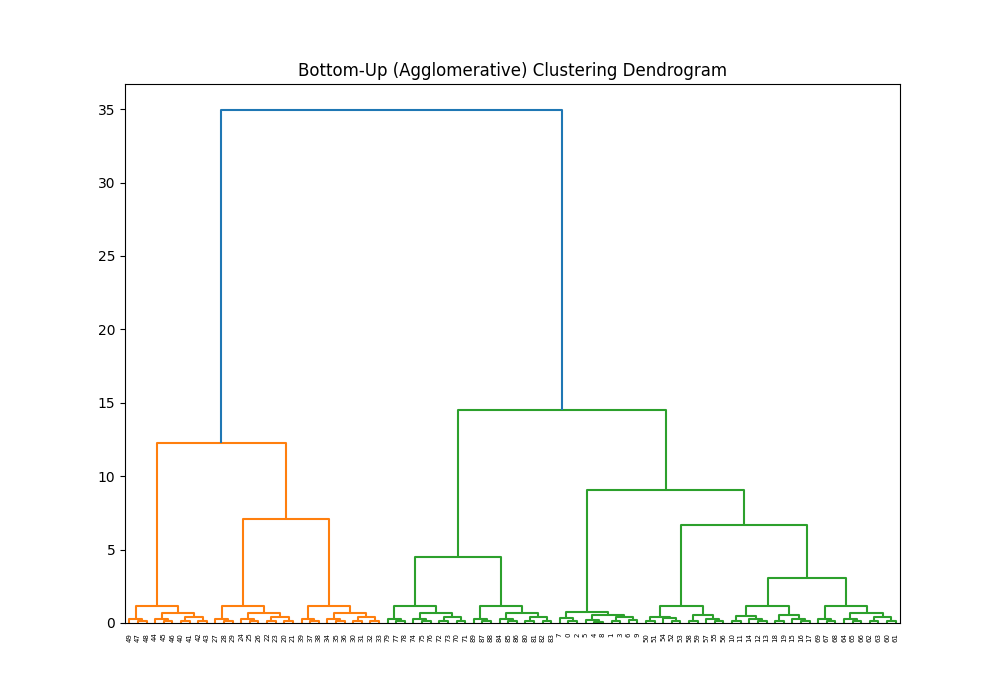
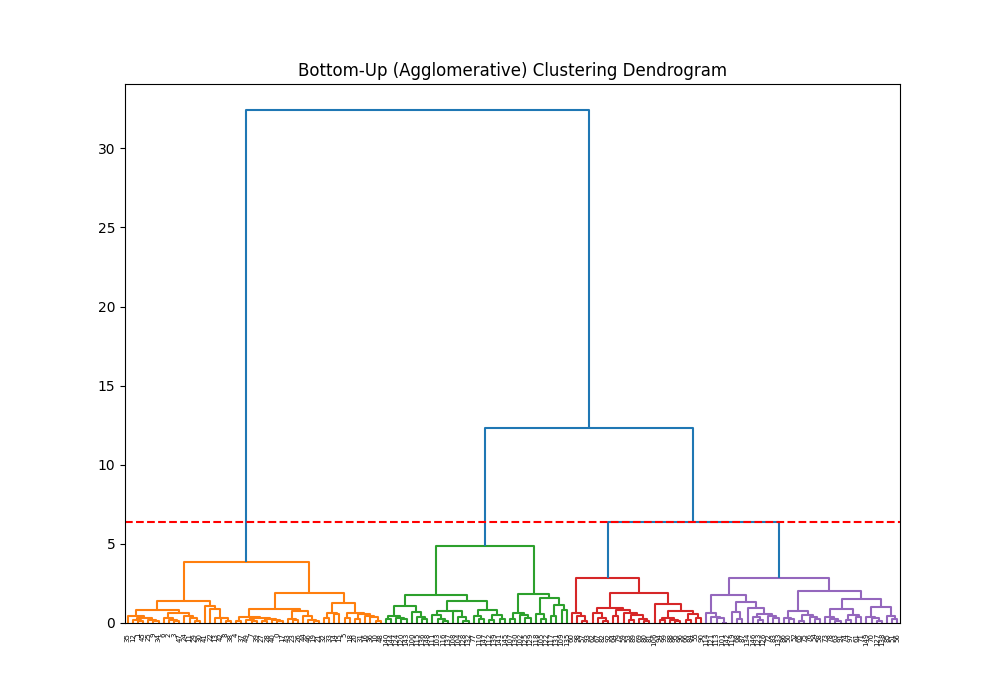
demo-1.4

diff --git a/templates/index.html b/templates/index.html
@@ -20,7 +20,7 @@
 
             <div class="form-group">
                 <label for="num_clusters">Number of Clusters:</label>
-                <input type="text" id="num_clusters" name="num_clusters" required>
+                <input type="number" id="num_clusters" name="num_clusters" value="3" min="2" required>
             </div>
             <!-- Lựa chọn phương pháp clustering -->
             <div class="form-group">

diff --git a/app.py b/app.py
@@ -1,68 +1,81 @@
-from flask import Flask, request, render_template
-import pandas as pd
-from sklearn.cluster import KMeans
-import matplotlib.pyplot as plt
 import io
 import os
-from flask import send_file
 import base64
 import numpy as np
-from scipy.cluster.hierarchy import dendrogram
+import pandas as pd
+from flask import send_file
+import matplotlib.pyplot as plt
+from scipy.cluster.hierarchy import linkage, dendrogram
+from flask import Flask, request, render_template
 from scipy.spatial.distance import pdist, squareform
-from scipy.cluster.hierarchy import linkage
-from sklearn.cluster import AgglomerativeClustering
+from sklearn.cluster import AgglomerativeClustering, KMeans, MiniBatchKMeans
 
 app = Flask(__name__)
-
-
-# Hàm thực hiện phân cụm đệ quy cho top-down
-def top_down_clustering(data, num_clusters):
-    clusters = [(data, 0)]  # Danh sách cụm ban đầu
-    labels = np.zeros(data.shape[0], dtype=int)  # Nhãn cho các điểm dữ liệu
-    current_cluster_label = 1  # Đánh dấu nhãn cụm
-
-    while len(clusters) < num_clusters:
-        # Nếu không có cụm nào để chia, dừng vòng lặp
-        if len(clusters) == 0:
-            break
-
-        # Tìm cụm lớn nhất để chia
-        largest_cluster_index = max(range(len(clusters)), key=lambda i: len(clusters[i][0]))
-        largest_cluster_data = clusters[largest_cluster_index][0]
-
-        # Nếu cụm lớn có ít hơn 2 điểm, không thể chia thêm
-        if len(largest_cluster_data) < 2:
-            break
-
-        # Xóa cụm lớn nhất ra khỏi danh sách
-        clusters.pop(largest_cluster_index)
-
-        # Áp dụng KMeans để chia cụm thành 2 phần
-        kmeans = KMeans(n_clusters=2)
-        sub_clusters = kmeans.fit_predict(largest_cluster_data)
-
-        # Gán nhãn cho các điểm
-        labels[labels == 0] = current_cluster_label  # Nhãn cho cụm mới 1
-        labels[labels == 1] = current_cluster_label + 1  # Nhãn cho cụm mới 2
-
-        # Thêm hai cụm mới vào danh sách
-        clusters.append((largest_cluster_data[sub_clusters == 0], current_cluster_label))
-        clusters.append((largest_cluster_data[sub_clusters == 1], current_cluster_label + 1))
-
-        current_cluster_label += 2  # Tăng nhãn cụm
-
-    return labels
 
 # Đường dẫn thư mục lưu trữ file trên server
 UPLOAD_FOLDER = 'uploads'
 if not os.path.exists(UPLOAD_FOLDER):
     os.makedirs(UPLOAD_FOLDER)
 
+
+# Function to calculate SSE for a cluster
+def calculate_sse(data, labels):
+    sse = []
+    for i in np.unique(labels):
+        cluster_points = data[labels == i]
+        if len(cluster_points) > 0:
+            center = cluster_points.mean(axis=0)
+            sse.append(np.sum((cluster_points - center) ** 2))
+        else:
+            sse.append(0)
+    return np.array(sse)
+
+
+# Recursive function to perform the divisive clustering and splitting
+def top_down_clustering(data, num_clusters, cluster_id=0, labels=None, original_index=None):
+    if data is None:
+        raise ValueError("Data cannot be None in recursive_clustering function.")
+
+    # Initialize labels and original indices if not provided
+    if labels is None:
+        labels = np.zeros(data.shape[0], dtype=int)
+    if original_index is None:
+        original_index = np.arange(data.shape[0])
+
+    print(f"Recursive clustering called with {len(data)} data points and {num_clusters} clusters.")
+
+    # Perform K-Means clustering with 2 clusters to split the cluster
+    kmeans = KMeans(n_clusters=2)
+    sub_labels = kmeans.fit_predict(data)
+
+    # Calculate SSE for each cluster
+    sse = calculate_sse(data, sub_labels)
+    max_sse_index = np.argmax(sse)
+    print(f"Cluster {max_sse_index} has the highest SSE: {sse[max_sse_index]}")
+
+
+    # Assign new labels in the original labels array
+    if len(labels) != len(original_index):
+        raise ValueError(f"Length mismatch: labels {len(labels)} vs. original_index {len(original_index)}")
+
+    labels[original_index[sub_labels == max_sse_index]] = cluster_id
+
+    # If the current number of clusters is less than the target, split further
+    if cluster_id + 1 < num_clusters - 1:
+        for i in range(2):  # Loop through both sub-clusters
+            cluster_points = data[sub_labels == i]
+            new_index = original_index[sub_labels == i]
+            print(f"Splitting cluster {i} with {len(cluster_points)} points")
+            if len(cluster_points) > 0:
+                top_down_clustering(cluster_points, num_clusters, cluster_id + i, labels, new_index)
+
+    return labels
+
+
 # Trang chủ
 @app.route('/')
 def home():
     return render_template('index.html')
-
 
 # Xử lý upload file và clustering
 @app.route('/upload', methods=['POST'])
@@ -94,22 +107,28 @@ def upload_file():
             df['Cluster'] = clustering.fit_predict(numeric_data)
             method_name = "Bottom-Up (Agglomerative)"
 
+            max_d = Z[-num_clusters, 2]
             # Vẽ biểu đồ Dendrogram cho Bottom-up
             plt.figure(figsize=(10, 7))
             plt.title(f"{method_name} Clustering Dendrogram")
-            dendrogram(Z)
+            dendrogram(Z, color_threshold=max_d)
+            plt.axhline(y=max_d, color='r', linestyle='--')
 
         elif method == 'top-down':
             # Áp dụng custom top-down divisive clustering
-            labels = top_down_clustering(numeric_data.to_numpy(), num_clusters)
-            df['Cluster'] = labels
-            method_name = "Top-Down (Divisive)"
-
-            # Vẽ Dendrogram cho Top-down bằng cách tính khoảng cách giữa các cụm
-            dist_matrix = squareform(pdist(numeric_data, 'euclidean'))
+            try:
+                Z = linkage(numeric_data, method='ward')
+                labels = top_down_clustering(numeric_data.to_numpy(), num_clusters)
+                df['Cluster'] = labels
+                method_name = "Top-Down (Divisive)"
+            except Exception as e:
+                return f"Error in top-down clustering: {str(e)}"
+            max_d = Z[-num_clusters, 2]
+            # Plot the dendrogram manually
             plt.figure(figsize=(10, 7))
             plt.title(f"{method_name} Clustering Dendrogram")
-            dendrogram(dist_matrix)
+            dendrogram(Z, color_threshold=max_d)
+            plt.axhline(y=max_d, color='r', linestyle='--')
 
         # Lưu biểu đồ dendrogram vào bộ nhớ
         img = io.BytesIO()
@@ -132,7 +151,6 @@ def upload_file():
                                result_url='/download/result')
     return 'File không hợp lệ. Vui lòng upload file CSV hoặc Excel.'
 
-    # Thêm hàm để tải file dendrogram
 @app.route('/download/<file_type>')
 def download_file(file_type):
     if file_type == 'dendrogram':
@@ -146,4 +164,5 @@ def download_file(file_type):
 
 
 if __name__ == '__main__':
-    app.run(debug=False, host='0.0.0.0')
+    # app.run(debug=False, host='0.0.0.0')
+    app.run(debug=True)
